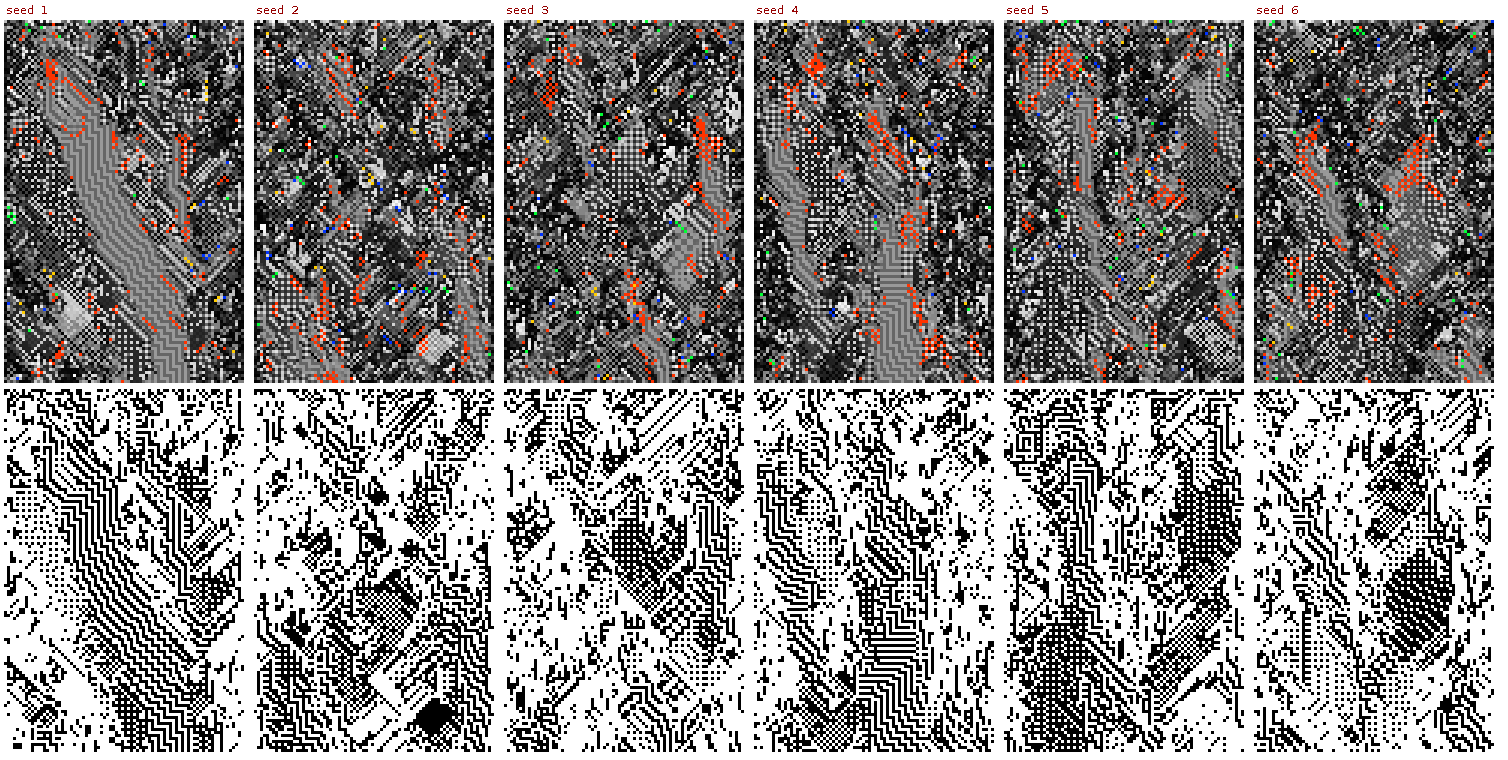
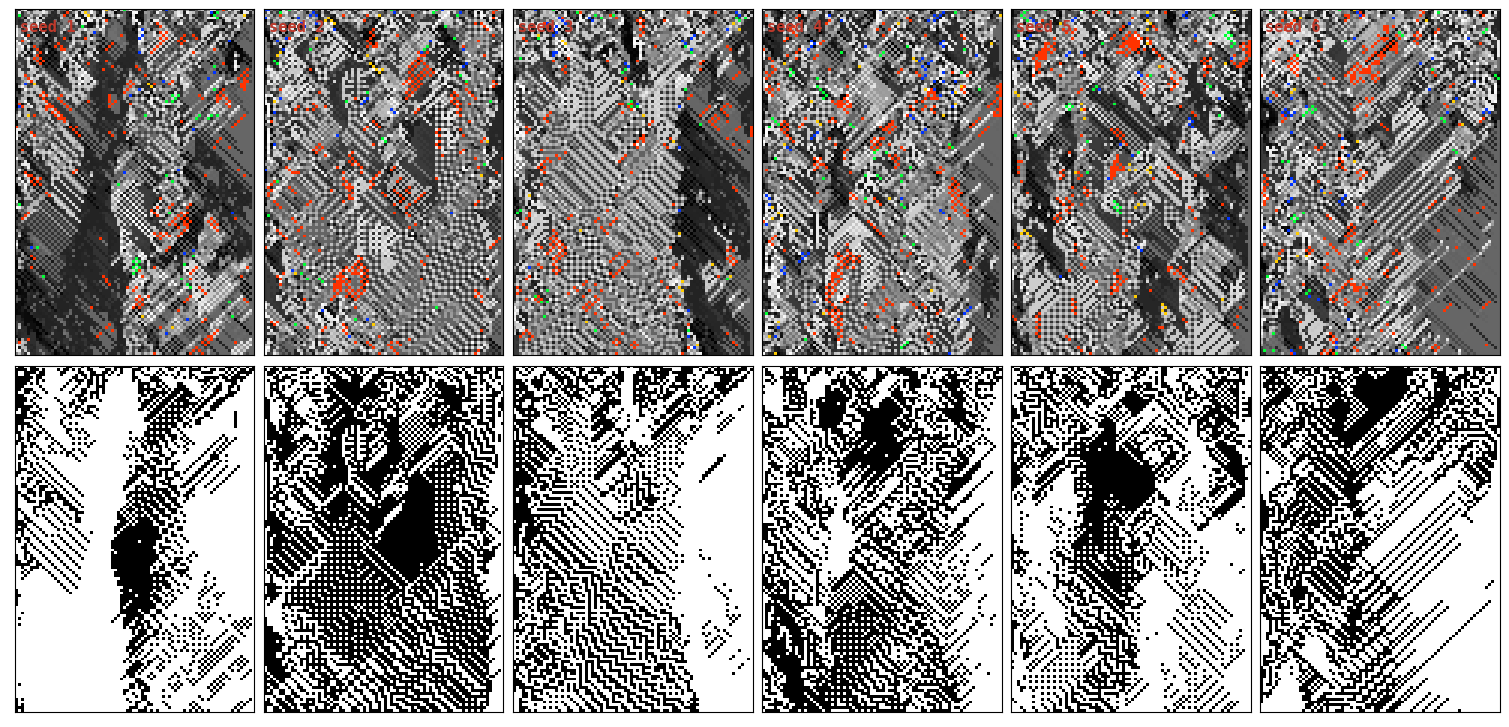
paper: regenerate Fig 6 (river) from reproducible mmca; fix fallback wording
river.png now from mmca/scripts/gen_fig6.clj via the run-river seam. Also
corrected the construction's fallback in the caption and body: it is the
cell's own local rule, not "the all-zero rule" (per exotype_ports.clj's
:center-truth-table-local-rule). latexmk clean, 21 pp, 0 overfull.

All six paper figures are now reproducible from the standalone mmca package.

diff --git a/holes/tech-notes/paper/draft2.tex b/holes/tech-notes/paper/draft2.tex
@@ -473,7 +473,7 @@ new must pair a propagator with a step of a different kind.
 One such composition is worth exhibiting. Taking the offset-$+2$
 propagator---the $\gcd 2$ operator of Figure~\ref{fig:eoc}---and composing
 it with a construction step that reads the phenotype, matches it against
-local templates, and falls back to the all-zero rule produces a
+local templates, and falls back to the cell's own local rule produces a
 \emph{river}: a coherent band of alternating phenotype that drifts through a
 disordered background and reappears in all six seeds we tried
 (Figure~\ref{fig:river}). Where the bare rotation collapses or cycles, this
@@ -486,7 +486,7 @@ two mechanisms here; a fuller catalogue of composed operators is future work.
 \includegraphics[width=\linewidth]{figures/river.png}
 \caption{A \emph{river}: a composed operator sustains a reproducible
 structure. The offset-$+2$ propagator, composed with a phenotype-reading,
-template-matching construction (fallback: the all-zero rule), produces in
+template-matching construction (fallback: the cell's own local rule), produces in
 each of six seeds a coherent band of alternating phenotype (bottom row)
 drifting through a disordered background (genotype top, six seeds; genotype
 coloured by rule as in Figures~\ref{fig:regimes}--\ref{fig:eoc}---greyscale by
